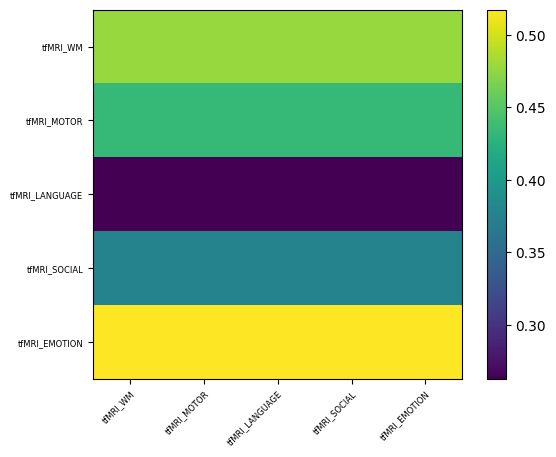
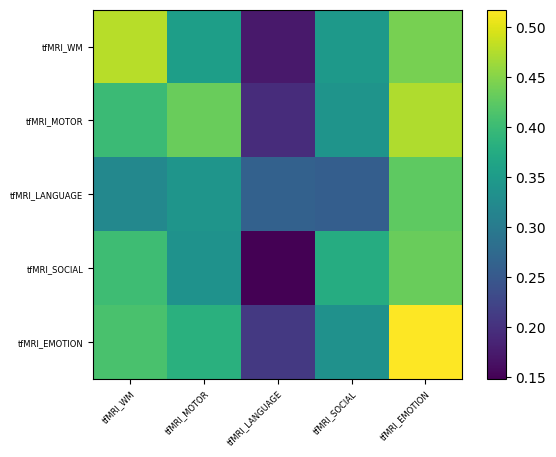
y_comparison insteado of y

diff --git a/classifier.py b/classifier.py
@@ -219,7 +219,7 @@ if infants == 0:
             folder = f'classifier_results_alpha-{alpha}_l1ratio-{l1_ratio}' 
         else: 
             if infants == 1:
-                folder = f'final_parameters_classifier_results_alpha-{alpha}_l1ratio-{l1_ratio}_infants'
+                folder = f'/home/chiaracaldinelli/final_parameters_classifier_results_alpha-{alpha}_l1ratio-{l1_ratio}_infants'
             else:
                 folder = f'final_parameters_classifier_results_alpha-{alpha}_l1ratio-{l1_ratio}'
                 
@@ -426,7 +426,7 @@ else:
                 for comparison_task in act_for_classifier:
                     
                     y_comparison = scipy.stats.zscore( act_for_classifier[comparison_task][hemi], axis=1 ) # Across vertices within each subject
-                    y_comparison_mean = np.mean(y, axis=0)
+                    y_comparison_mean = np.mean(y_comparison, axis=0)
                     c = pearsonr(y_comparison_mean, y_estimate)
                     
                     c_ext = c[0]
@@ -434,7 +434,7 @@ else:
                     res = pd.concat((res, pd.DataFrame([
                         {'algorithm': 'ElasticNet', 'alpha': alpha, 'l1_ratio': l1_ratio,
                         'task': task, 'hemi': hemi, 'fold': one_infant,
-                        'comparison_task':comparison_task, 
+                        'comparison_task': comparison_task, 
                         'pearson': c[0], 'score':sc}
                         ])))
 
